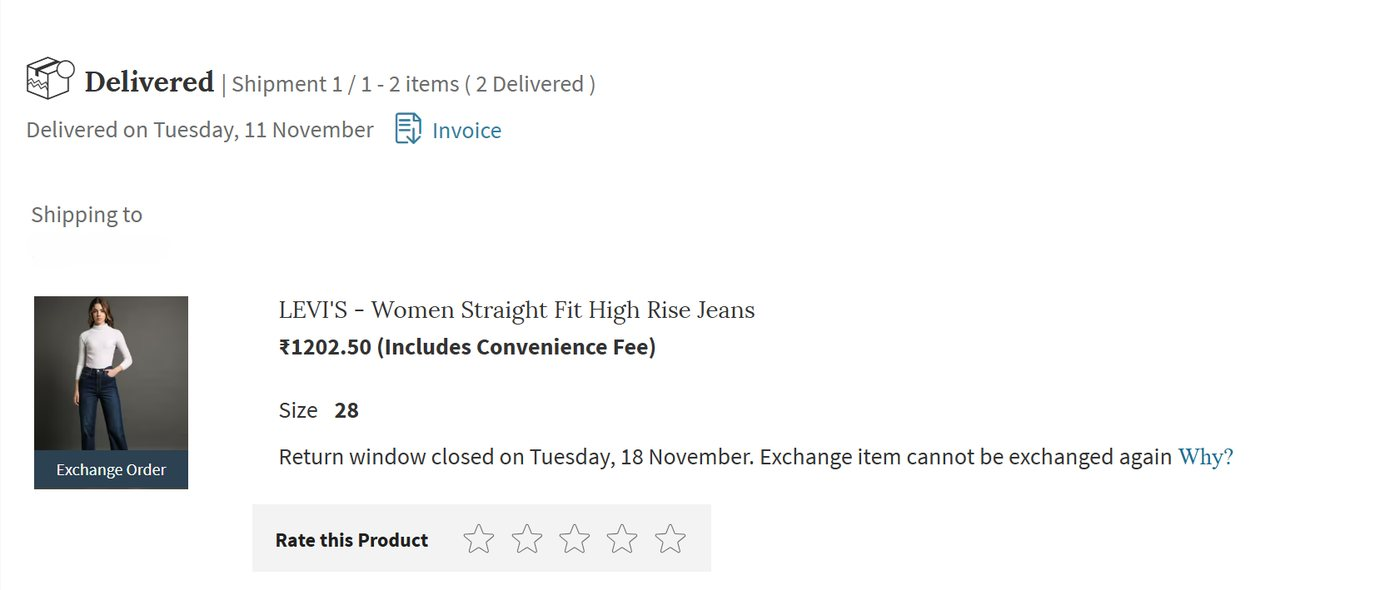
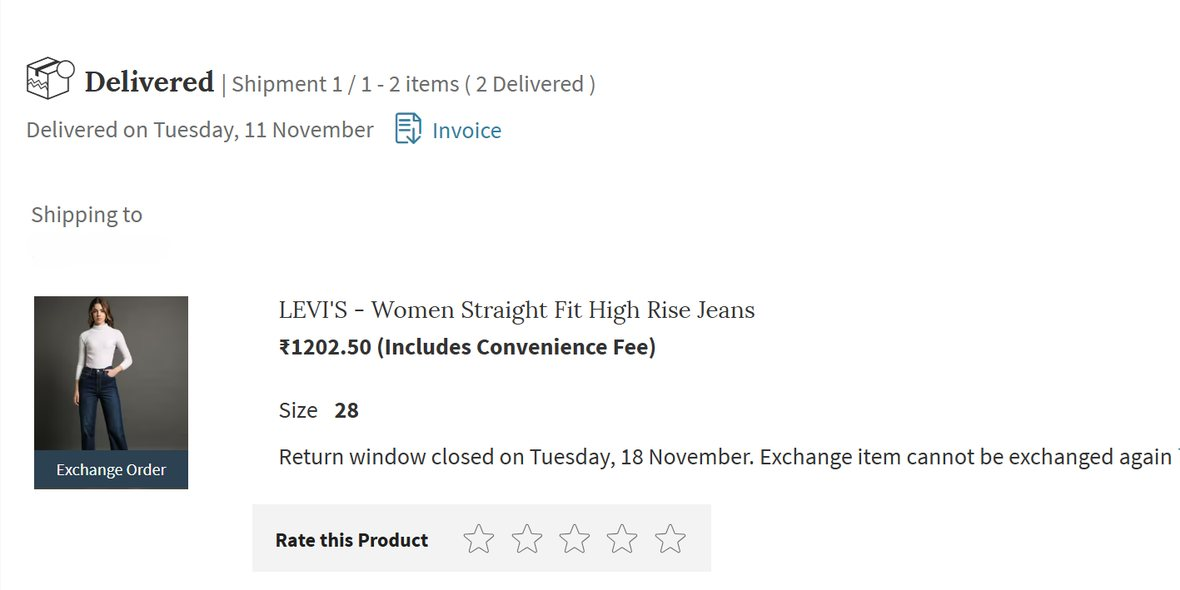
Cut the FitCheck piece down, mostly by cutting pictures
It read long on the page, and the words were only half the reason.
Three full-bleed figures were 1,910px of a 4,681px body — 41% of the
article was picture.

The figures now sit at the reading measure rather than breaking past
it, and the two Levi's shots are side by side instead of stacked. They
are a comparison: the recommendation, and the order it replaced. As a
pair they read in one glance and cost 300px instead of 1,139. Both
cropped to 2:1 so the captions land on the same line, which is the rule
the CREW row had to learn the hard way.

Prose came down too, about 110 words, taken out of explanation rather
than evidence. Every number stayed. The worked example in "what it
does" went, because the demo shows it better than a paragraph can.

Page height 5,941px to 4,914px. No overflow at 390.

diff --git a/writing/fitcheck/index.html b/writing/fitcheck/index.html
@@ -94,54 +94,53 @@
   <div class="art-wrap">
     <div class="art-body">
 <h2>Four tabs, four different Ms</h2>
-<p>It started on an afternoon when Myntra, AJIO, H&amp;M and Westside were all running sales at once. I had a tab open on each.</p>
-<p>I shop for clothes on a laptop. Not because it is faster. A bigger screen shows me more of what I am about to buy.</p>
-<p>That preference is the only reason I noticed.</p>
-<p>Across four tabs, the same letter meant four different bodies. An M on one site was not the M on another. Myntra and AJIO were worse, because they are aggregators. Every brand inside them ships its own chart.</p>
+<p>Myntra, AJIO, H&amp;M and Westside were all running sales at once. I had a tab open on each.</p>
+<p>I shop for clothes on a laptop, because a bigger screen shows me more of what I am about to buy. That preference is the only reason I noticed.</p>
+<p>Across four tabs, the same letter meant four different bodies. An M on one site was not the M on another. Myntra and AJIO were worse, because they are aggregators &mdash; every brand inside them ships its own chart.</p>
 <p>I am an XS in some places. An S in most. An M in a few. There is no version of me that is one size.</p>
-<p>And every one of those pages already had a size chart on it. The information was never missing. It just asked me to do arithmetic across four tabs, in my head, while a sale timer ran.</p>
+<p>And every one of those pages already had the chart on it. The information was never missing. It just asked me to do arithmetic across four tabs, in my head, while a sale timer ran.</p>
 <blockquote class="pull">So the chart was never the problem. Trusting it was.</blockquote>
 <h2>What I decided not to build</h2>
-<p>The obvious build is a feature inside one retailer. I had already sketched it for Myntra.</p>
-<p>I dropped it. You cannot ship inside Myntra&rsquo;s product page without being Myntra. More importantly, a single-retailer fix cannot solve a problem that only exists <em>between</em> retailers. The difficulty was that four sites disagreed. Fixing one changes nothing.</p>
+<p>The obvious build is a feature inside one retailer. I had already sketched it for Myntra, and I dropped it. A single-retailer fix cannot solve a problem that only exists <em>between</em> retailers. The difficulty was that four sites disagreed. Fixing one changes nothing.</p>
 <p>So: a browser extension, reading whatever page you are on.</p>
-<p>That cost me something worth naming. Roughly 60% of Indian fashion traffic is on mobile, where an extension cannot reach. I am building for the desktop shopper, knowing it is the minority. The extension is the proof, not the product.</p>
-<p>I also wanted Westside and could not have it. Its size chart ships only as a PNG image. There are no numbers in the page at all. My adapters are not allowed to make network calls, which is a privacy rule I set early and did not want to bend for one retailer. So Westside is written up as a deliberate scope-out with two ways back in, rather than quietly dropped.</p>
+<p>That cost me something worth naming. Roughly 60% of Indian fashion traffic is on mobile, where an extension cannot reach. I am building for the desktop shopper knowing it is the minority. The extension is the proof, not the product.</p>
+<p>I wanted Westside too and could not have it. Its size chart ships only as a PNG image &mdash; no numbers in the page at all &mdash; and my adapters are not allowed to make network calls. That is a privacy rule I set early and would not bend for one retailer, so Westside is a documented scope-out rather than a gap.</p>
 <h2>What it does</h2>
-<p>You enter your measurements once. On a supported product page, a side panel tells you which size to buy, and which parts will be snug, right, or loose.</p>
-<p>The part that took longest is the part nobody sees.</p>
-<p>A size chart can mean two different things. It can describe the body a size is cut for. Or it can describe the garment&rsquo;s own flat measurement. The gap between them is the designer&rsquo;s intent. Two inches of ease is slim. Eight is oversized.</p>
-<p>Miss that distinction and you get confident nonsense. An oversized tee whose chart targets a 32-inch bust reads as &ldquo;too tight&rdquo; on a 36-inch body. But the garment is 40 inches around. It will hang loose.</p>
-<p>The engine knows the difference. That is the whole product.</p>
+<p>You enter your measurements once. On a supported product page, a side panel tells you which size to buy and which parts will be snug, right, or loose.</p>
+<p>The part that took longest is the part nobody sees. A size chart can mean two different things: the body a size is cut for, or the garment&rsquo;s own flat measurement. The gap between them is the designer&rsquo;s intent. Two inches of ease is slim. Eight is oversized.</p>
+<p>Miss that and you get confident nonsense &mdash; an oversized tee reading as &ldquo;too tight&rdquo; on a body it will actually hang loose on. The engine knows the difference. That is the whole product.</p>
 <p>No model, no prediction. The chart is already exact, so arithmetic is the right tool.</p>
 <h2>What it cost</h2>
-<p>I tested it against my own purchase history. One case I keep returning to.</p>
-<p>I ordered Levi&rsquo;s jeans in size 30. They arrived too loose. I shipped them back and exchanged for a 28. Both my waist and the label said 30, so the mistake looked impossible. But that cut&rsquo;s chart puts the <em>body</em> waist for size 28 at 30 inches. The label was misleading. The chart was not.</p>
+<p>I ordered Levi&rsquo;s jeans in size 30. They arrived too loose, so I shipped them back and exchanged for a 28. Both my waist and the label said 30, so the mistake looked impossible &mdash; but that cut&rsquo;s chart puts the <em>body</em> waist for size 28 at 30 inches. The label was misleading. The chart was not.</p>
 <p>FitCheck recommends 28 on that page straight away. One shipment instead of three.</p>
-<figure class="fig-wide">
-  <img src="images/state-recommended.jpg" alt="The FitCheck panel on the AJIO Levi&rsquo;s jeans page recommending size 28, with the waist marked on target and a green silhouette." width="1400" height="749" loading="lazy" decoding="async" />
+<!-- Side by side, not stacked: they are a comparison, and the pair reads in one
+     glance where two full-width figures cost 900px to say the same thing. Both are
+     cropped to 2:1 so the captions land on the same line. -->
+<div class="fig-row two">
+<figure>
+  <img src="images/state-recommended.jpg" alt="The FitCheck panel on the AJIO Levi&rsquo;s jeans page recommending size 28, with the waist marked on target and a green silhouette." width="1400" height="700" loading="lazy" decoding="async" />
   <figcaption>FitCheck picking 28 on the live product page.</figcaption>
 </figure>
-<figure class="fig-wide">
-  <img src="images/real-world-order.jpg" alt="AJIO order history showing the same Levi&rsquo;s jeans ordered in size 30 and exchanged for size 28, marked as an exchange order and delivered." width="1400" height="590" loading="lazy" decoding="async" />
-  <figcaption>And the order it would have replaced &mdash; a 30, exchanged for a 28.</figcaption>
+<figure>
+  <img src="images/real-world-order.jpg" alt="AJIO order history showing the same Levi&rsquo;s jeans delivered in size 28, marked as an exchange order." width="1180" height="590" loading="lazy" decoding="async" />
+  <figcaption>And the order it replaced &mdash; a 30, exchanged for a 28.</figcaption>
 </figure>
+</div>
 <p>The honest limits:</p>
 <ul>
-<li><strong>Ten installs.</strong> Seven were still using it a week later. Nobody uninstalled it. I recorded that by hand in a spreadsheet. There is no server and no telemetry here. It is a signal, not a study.</li>
-<li><strong>Six refusals in twenty-one attempts.</strong> Nearly one in three. Not crashes &mdash; the engine read those pages fine, and the size chart was simply short a measurement it needed. The panel says what is missing and offers to take your measurements by hand instead. A wrong verdict costs more trust than no verdict, so it does not guess. But that rate is the honest headline here: coverage is a bigger limit than accuracy right now.</li>
-<li><strong>Two body blocks, male and female</strong>, because retailers organise their charts that way. That underserves anyone those two blocks do not describe. The fix is a measurements-first model that drops the labels entirely. It is the next thing I would build.</li>
-<li><strong>Length follows the shelf, not the science.</strong> Biomechanics says inseam should scale with height. Retailers do not. Levi&rsquo;s lists a 32-inch inseam for every waist from 28 to 40. Predicting an ideal nobody stocks would flag jeans as &ldquo;runs short&rdquo; that are sold to tall women on purpose.</li>
+<li><strong>Ten installs.</strong> Seven still using it a week later, nobody uninstalled. Recorded by hand in a spreadsheet &mdash; there is no telemetry here. A signal, not a study.</li>
+<li><strong>Six refusals in twenty-one attempts.</strong> Nearly one in three. Not crashes &mdash; the engine read those pages fine, the chart was just short a measurement. It says so rather than guessing, because a wrong verdict costs more trust than no verdict. That rate is the honest headline: coverage is a bigger limit than accuracy.</li>
+<li><strong>Two body blocks, male and female</strong>, because retailers organise their charts that way. That underserves anyone those blocks do not describe. A measurements-first model that drops the labels is the next thing I would build.</li>
+<li><strong>Length follows the shelf, not the science.</strong> Biomechanics says inseam should scale with height. Retailers do not &mdash; Levi&rsquo;s lists a 32-inch inseam for every waist from 28 to 40. Predicting an ideal nobody stocks would flag jeans as &ldquo;runs short&rdquo; that are sold to tall women on purpose.</li>
 </ul>
-<figure class="fig-wide">
+<figure class="fig-body">
   <img src="images/refusal-myntra.jpg" alt="A Myntra jacket page beside the FitCheck panel reading &ldquo;Can&rsquo;t compute a fit for this product&rdquo;, explaining that the size chart is missing a measurement it needs." width="1500" height="987" loading="lazy" decoding="async" />
   <figcaption>A refusal, on Myntra &mdash; which has the cleanest data of the three. The size chart is right there on the page. It is just short a measurement, and the panel says so rather than guessing.</figcaption>
 </figure>
 <h2>What would prove me wrong</h2>
-<p>The metric I want is verdict-to-purchase. Of the people shown a recommendation, how many buy that size. It is the number a retailer would pay for, because it maps to fewer size-driven returns.</p>
-<p>I cannot measure it. It needs data from inside the retailer, and I am outside. Saying so is more useful than inventing a proxy.</p>
-<p>What I can measure is the override rate. How often someone is shown a size and picks a different one. That is the cleanest trust signal there is, and the one most fit tools never instrument. If people override it consistently, the verdict is not trusted, and correct arithmetic will not fix that.</p>
-<p>Ten installs cannot tell me. That is the honest end of this. I have a working engine, a real case where it would have saved a return, and not enough users to know whether it holds at scale.</p>
+<p>The metric I want is verdict-to-purchase: of the people shown a recommendation, how many buy that size. It is the number a retailer would pay for, because it maps to fewer size-driven returns. I cannot measure it &mdash; that needs data from inside the retailer, and I am outside. Saying so beats inventing a proxy.</p>
+<p>What I can measure is the override rate: how often someone is shown a size and picks a different one. It is the cleanest trust signal there is, and the one most fit tools never instrument. If people override consistently, the verdict is not trusted, and correct arithmetic will not fix that.</p>
+<p>Ten installs cannot tell me. That is the honest end of this &mdash; a working engine, a real case where it would have saved a return, and not enough users to know whether it holds.</p>
 <p class="deck-note"><a href="https://fitcheck-demo.netlify.app" target="_blank" rel="noopener noreferrer">Try it live &nearr;</a> &nbsp;&middot;&nbsp; <a href="https://github.com/ritikadas98/fitchecker" target="_blank" rel="noopener noreferrer">Read the source &nearr;</a></p>
     </div>
   </div>

diff --git a/styles.css b/styles.css
@@ -840,6 +840,10 @@ figcaption{font-size:13px;line-height:1.55;color:var(--muted);margin-top:11px}
   text-transform:uppercase;color:var(--muted)}
 .deck-note a{color:var(--accent);text-decoration:none;border-bottom:1px solid var(--pill-line)}
 .deck-note a:hover{border-color:var(--accent)}
+/* A landscape figure held to the reading measure rather than breaking past it. For
+   screenshots that read fine at 745px, where fig-wide would spend a third more
+   vertical space to say the same thing. */
+.fig-body{margin:34px 0}
 /* Review cards are landscape and dense, so they break out past the measure. */
 .fig-wide{width:min(1124px,100vw - 56px);margin-left:50%;transform:translateX(-50%)}
 .table-scroll{overflow-x:auto;margin:34px 0;width:min(1124px,100vw - 56px);margin-left:50%;transform:translateX(-50%)}
@@ -888,6 +892,7 @@ a.wr-in:hover .wr-title{color:var(--accent)}
    column carries them side by side with their own captions. The images must be
    cut to a common aspect ratio before they go in here — mismatched heights leave
    the captions on three different lines and the row reads as an accident. */
+.fig-row.two{grid-template-columns:repeat(2,1fr)}
 .fig-row{display:grid;grid-template-columns:repeat(3,1fr);gap:24px;align-items:start;
   margin:44px 0;width:min(1124px,100vw - 56px);margin-left:50%;transform:translateX(-50%)}
 .fig-row figure{margin:0}
